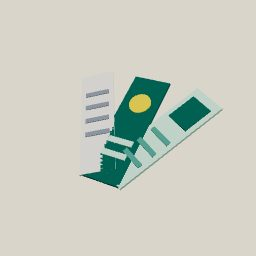
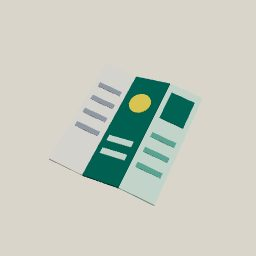
Alufolie als Schachtel mit Folienrolle und herausgezogenem Zackenstück, Obstnetz als länglicher Netzschlauch mit Clip; Vorschaubilder neu (auch beide Prospekte)

diff --git a/components/game/models/gelber-sack.tsx b/components/game/models/gelber-sack.tsx
@@ -7,68 +7,56 @@ import { type V3 } from "./shared";
 export function renderGelberSackModel(key: string, name: string) {
   switch (key) {
     case "foil":
-      // Gebrauchte Alufolie: ein zerknittertes, rechteckiges Blatt aus vielen schräg liegenden
-      // Facetten (hell/dunkel im Wechsel, daher glänzt es wie Folie – ein grauer Klumpen sah nach Stein aus),
-      // dazu ein kleines Knäuel und weiße Glanzkanten
+      // Alufolie: die bekannte Schachtel (blau, weißes Etikett) mit der silbernen Rolle oben und einem
+      // herausgezogenen, zerknitterten Folienstück mit Zackenkante – so erkennt man Folie sofort
+      // (ein Knäuel aus Facetten las sich als Stein oder Papier)
       return (
-        <group rotation={[0.9, -0.25, 0.08]}>
-          {(
-            [
-              // x, z, Kippung x, Kippung z, Farbe
-              [-0.3, -0.15, 0.25, -0.2, "#E9EEF5"],
-              [-0.1, -0.17, -0.2, 0.15, "#C8D0DC"],
-              [0.1, -0.14, 0.3, 0.25, "#F7F9FC"],
-              [0.3, -0.16, -0.25, -0.2, "#C9D1DC"],
-              [-0.3, 0.05, -0.2, 0.2, "#D2D9E4"],
-              [-0.1, 0.07, 0.25, -0.25, "#F4F7FB"],
-              [0.1, 0.06, -0.3, -0.1, "#C2CBD8"],
-              [0.3, 0.05, 0.2, 0.3, "#E4EAF2"],
-              [-0.28, 0.25, 0.3, 0.15, "#F1F4F9"],
-              [-0.08, 0.27, -0.25, -0.2, "#CBD3DF"],
-              [0.12, 0.26, 0.2, 0.25, "#DCE3EC"],
-              [0.31, 0.25, -0.2, 0.1, "#F6F8FB"],
-            ] as [number, number, number, number, string][]
-          ).map(([x, z, rx, rz, col], i) => (
-            <Part
-              key={i}
-              geo={G.box(0.23, 0.01, 0.21, 0.002)}
-              pos={[x, 0.01 * (i % 3), z - 0.05]}
-              rot={[rx, 0, rz]}
-              flat
-              color={col}
-              roughness={0.3}
-              metalness={0.2}
-            />
-          ))}
-          {/* kleines Knäuel in der Ecke */}
-          <Part
-            geo={G.crumple(0.11, 1.0, 11, 1)}
-            pos={[0.22, 0.1, 0.2]}
-            flat
-            color="#F2F5FA"
-            roughness={0.3}
-            metalness={0.2}
-          />
-          {/* Glanzkanten */}
-          {(
-            [
-              [-0.2, 0.03, -0.1, 0.5],
-              [0.2, 0.04, 0.0, -0.4],
-              [0.0, 0.04, 0.2, 0.3],
-              [-0.25, 0.04, 0.2, 1.1],
-            ] as [number, number, number, number][]
-          ).map(([x, y, z, r], i) => (
-            <Part
-              key={`g${i}`}
-              geo={G.box(0.22, 0.004, 0.025, 0.001)}
-              pos={[x, y, z]}
-              rot={[0.2, r, 0.1]}
-              basic
-              noDepthWrite
-              color="#FFFFFF"
-              opacity={0.9}
-            />
-          ))}
+        <group rotation={[0.8, -0.3, 0.05]}>
+          {/* Schachtel: x ±0,28, y 0 … 0,14, z ±0,08 */}
+          <Part geo={G.box(0.56, 0.14, 0.16, 0.015)} pos={[0, 0.07, -0.14]} color="#1D6FB8" roughness={0.6} />
+          {/* weißes Etikett mit Streifen vorn (Vorderseite z = −0,06) */}
+          <Part geo={G.box(0.3, 0.07, 0.004, 0.001)} pos={[0, 0.07, -0.062]} basic color="#F8FAFC" />
+          <Part geo={G.box(0.3, 0.015, 0.005, 0.001)} pos={[0, 0.095, -0.06]} basic color="#E11D48" />
+          {/* silberne Folienrolle liegt oben auf der Schachtel */}
+          <Part geo={G.cyl(0.055, 0.055, 0.54, 20)} rot={[0, 0, Math.PI / 2]} pos={[0, 0.17, -0.1]} color="#E3E8EF" roughness={0.25} metalness={0.25} />
+          <Part geo={G.cyl(0.058, 0.058, 0.01, 20)} rot={[0, 0, Math.PI / 2]} pos={[0.272, 0.17, -0.1]} color="#B4BECC" roughness={0.3} />
+          {/* Glanzstreifen auf der Rolle */}
+          <Part geo={G.box(0.5, 0.008, 0.012, 0.002)} pos={[0, 0.222, -0.1]} basic noDepthWrite color="#FFFFFF" opacity={0.9} />
+          {/* herausgezogenes Stück, leicht welliges Blatt nach vorn */}
+          <group position={[0, 0.0, 0.02]}>
+            <Part geo={G.wave(0.52, 0.34, 0.03, 8, 4)} rot={[-Math.PI / 2 + 0.12, 0, 0]} pos={[0, 0.07, 0.0]} double flat color="#DDE3EC" roughness={0.3} metalness={0.2} />
+            {/* helle und dunkle Knitterstreifen */}
+            {(
+              [
+                [-0.18, 0.5, "#FFFFFF", 0.8],
+                [0.0, -0.4, "#8E99AA", 0.5],
+                [0.17, 0.3, "#FFFFFF", 0.8],
+                [-0.06, 0.9, "#8E99AA", 0.5],
+              ] as [number, number, string, number][]
+            ).map(([x, r, col, op], i) => (
+              <Part
+                key={i}
+                geo={G.box(0.2, 0.004, 0.018, 0.001)}
+                pos={[x, 0.09, 0.02 + (i % 2) * 0.1]}
+                rot={[0.1, r, 0]}
+                basic
+                noDepthWrite
+                color={col}
+                opacity={op}
+              />
+            ))}
+            {/* Zackenkante vorn (Schneideleiste) */}
+            {Array.from({ length: 13 }, (_, k) => (
+              <Part
+                key={`z${k}`}
+                geo={G.box(0.016, 0.006, 0.03, 0.001)}
+                pos={[-0.24 + k * 0.04, 0.062, 0.2]}
+                rot={[0.1, 0, k % 2 ? 0.3 : -0.3]}
+                color="#C9D1DC"
+                roughness={0.3}
+              />
+            ))}
+          </group>
         </group>
       );
 

diff --git a/components/game/models-extra.tsx b/components/game/models-extra.tsx
@@ -526,7 +526,7 @@ export function renderExtraModel(key: string, name = ""): ReactElement | null {
       // Längsschnüre: Ellipse 0,19 breit / 0,23 hoch; Querringe liegen darauf
       // (Radius = 0,19 · √(1 − (y/0,23)²))
       return (
-        <group rotation={[0.6, 0.4, 0.4]} position={[0, -0.03, 0]} scale={[1.15, 0.85, 0.8]}>
+        <group rotation={[0.5, 0.3, 1.15]} position={[0.02, -0.02, 0]} scale={[1.05, 1.35, 0.95]}>
           {(
             [
               [-0.19, 0.105],
